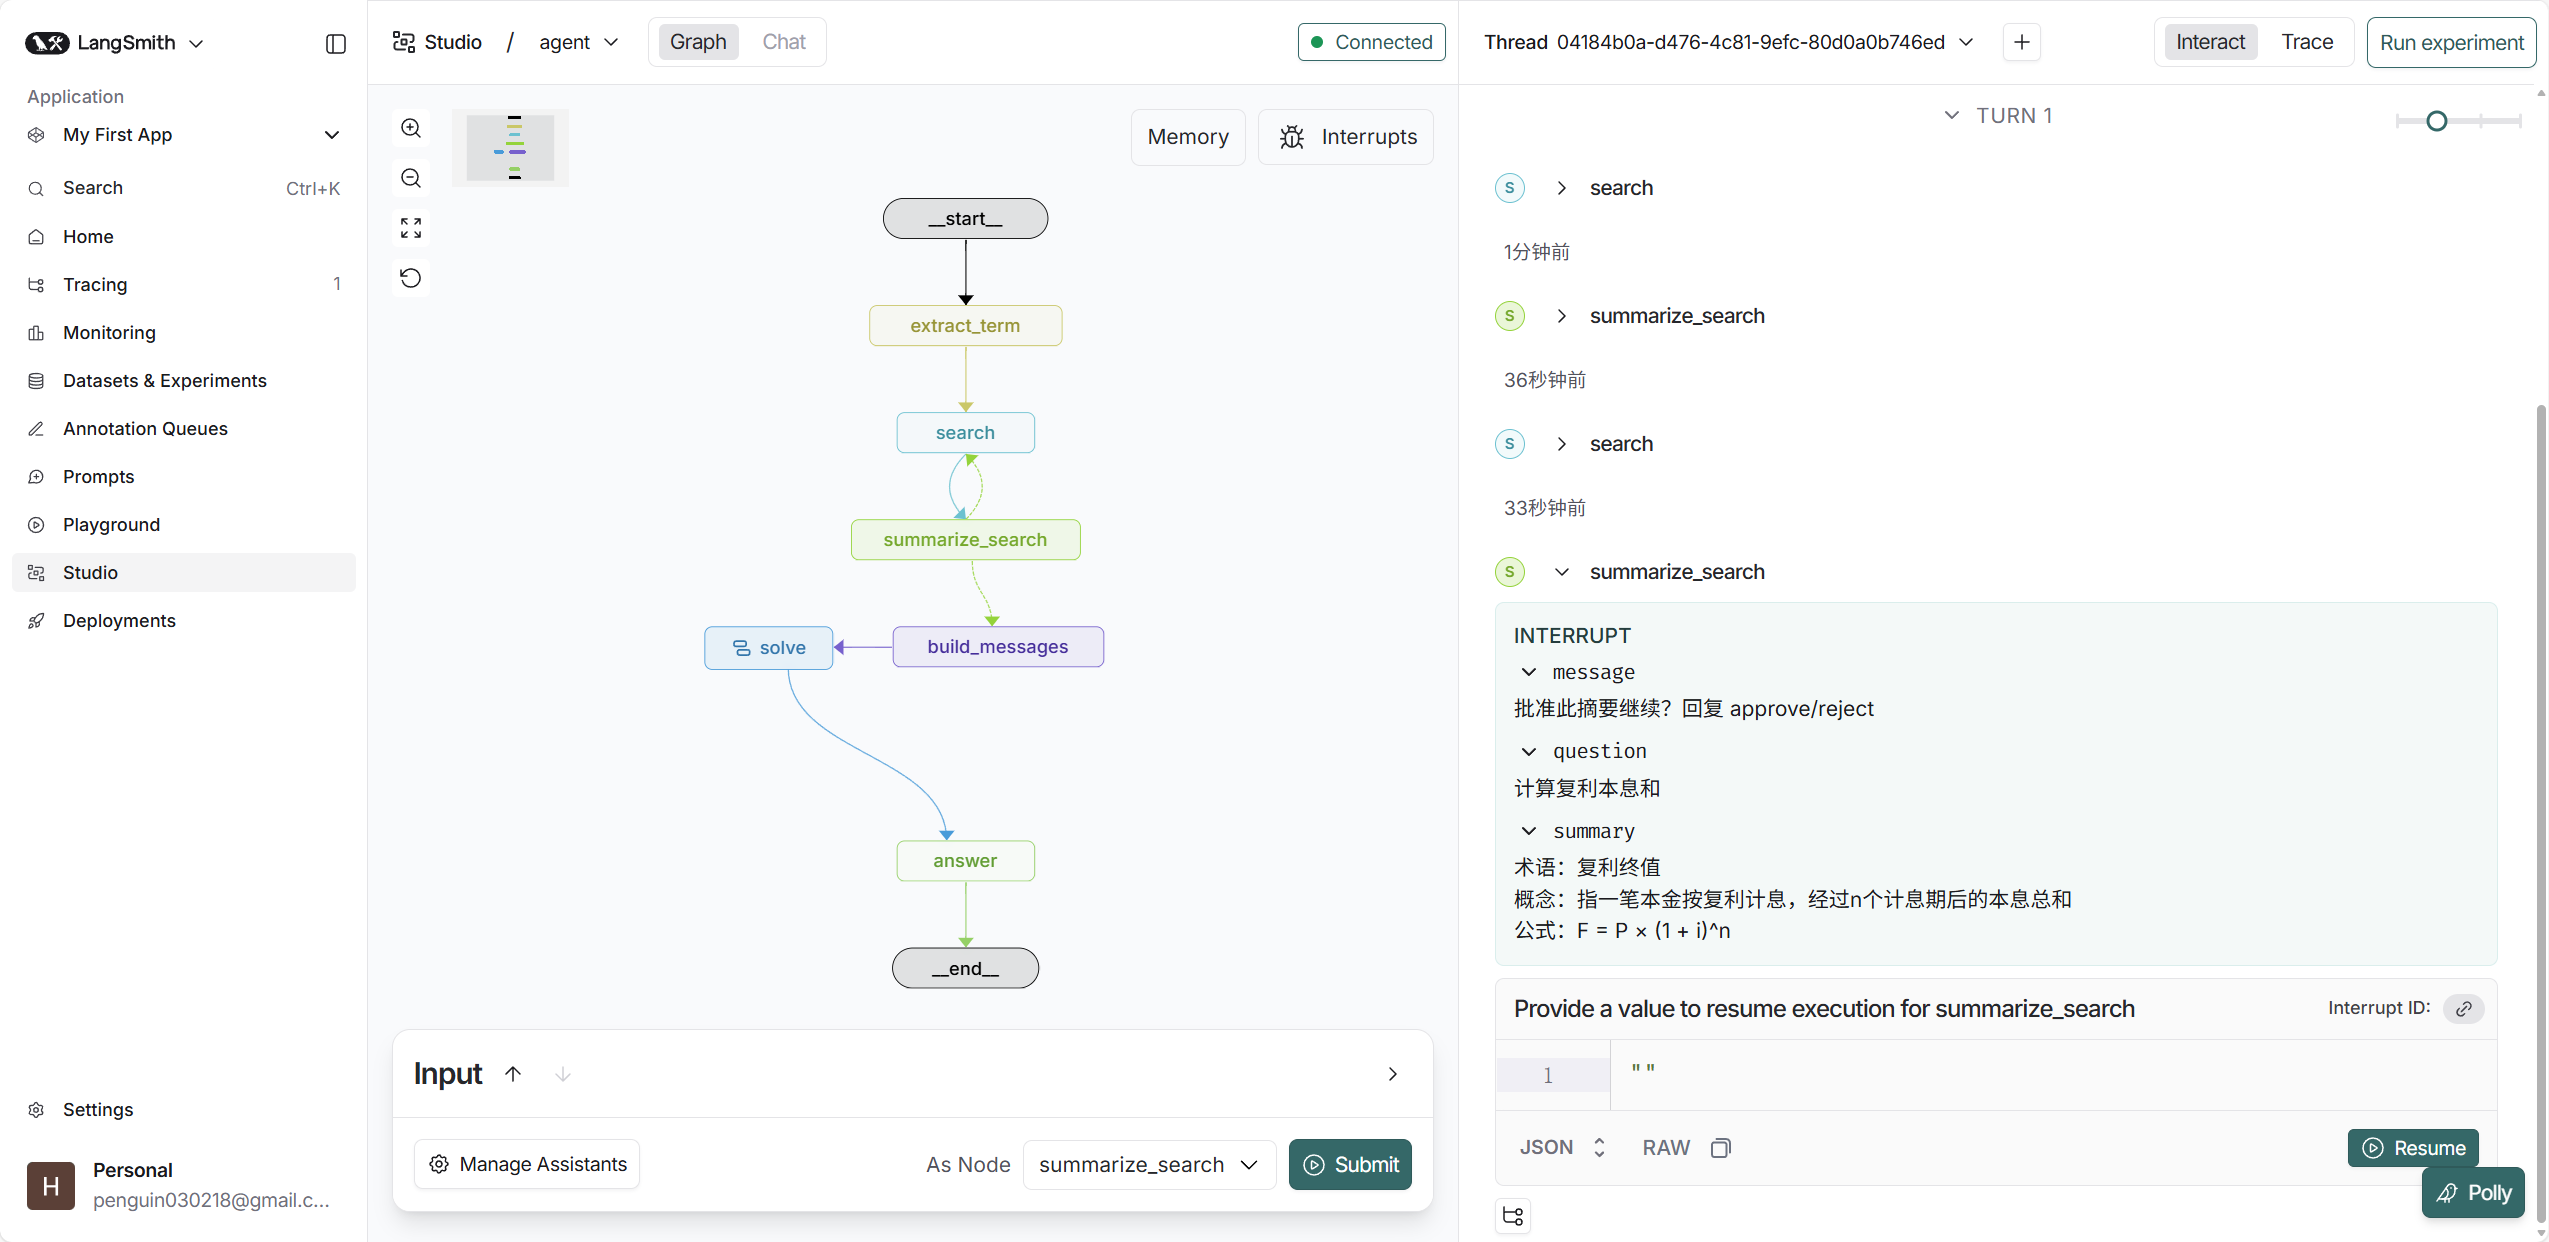
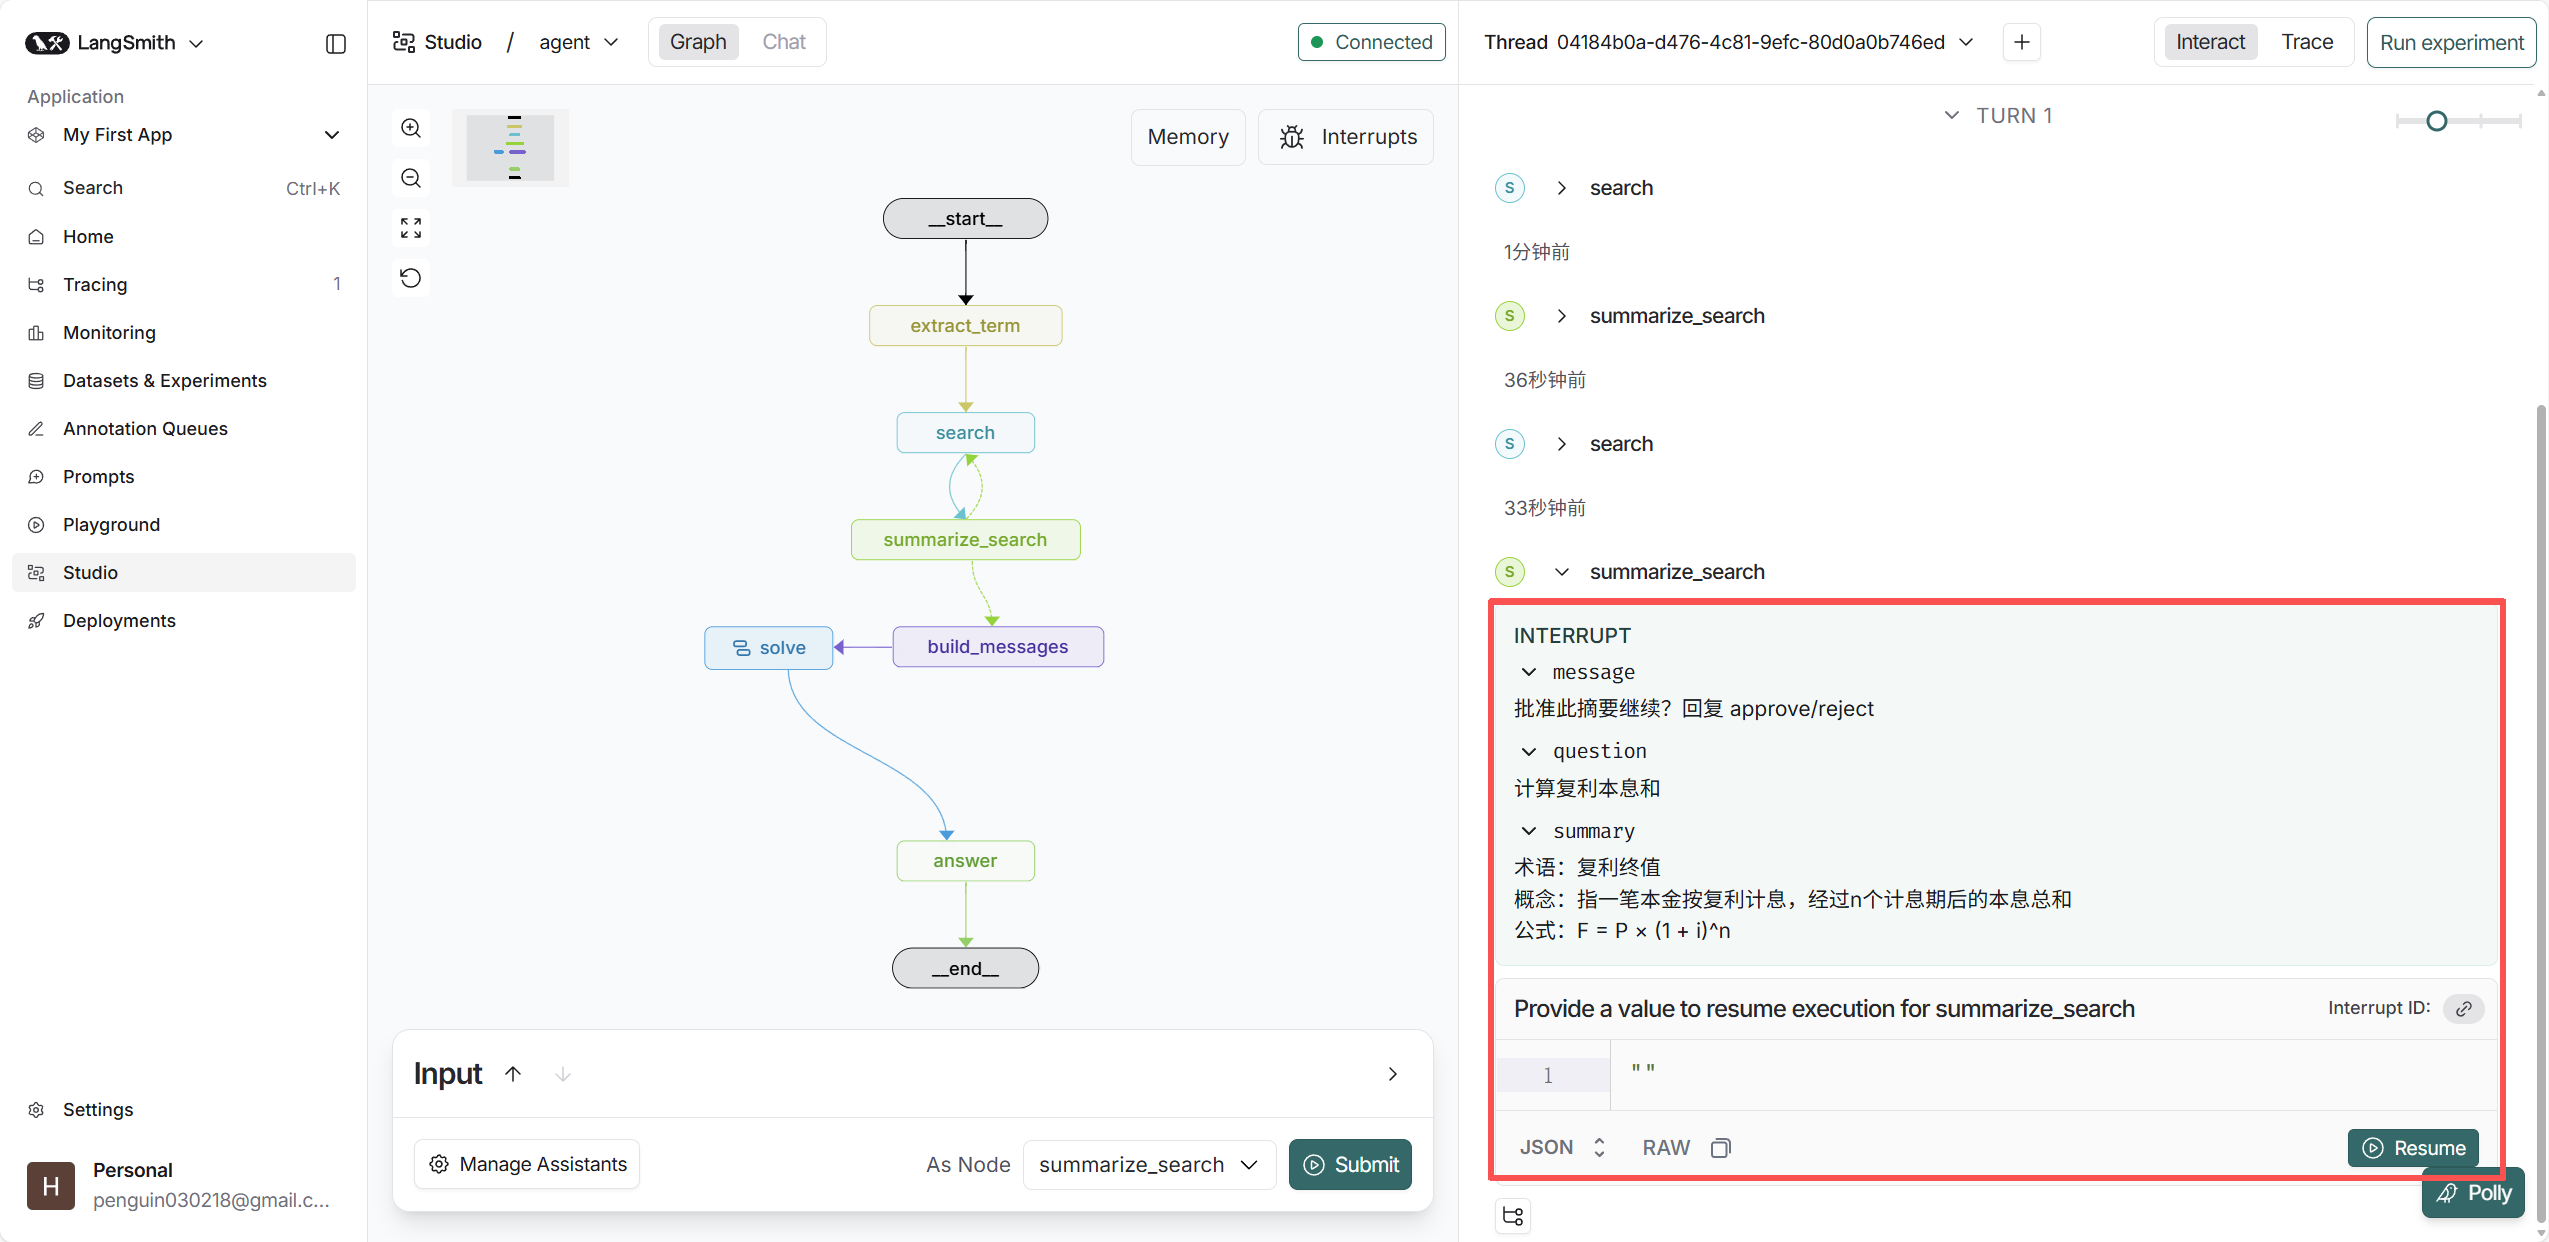
update system picture

Changed region(s): [[0.5889, 0.4589, 0.9918, 0.4895], [0.9608, 0.9179, 0.9918, 0.9485]]

diff --git a/README.md b/README.md
@@ -33,7 +33,7 @@
 
 ![LangGraph Studio 总览](<https://github.com/penguin218/Finance-Reasoning-System/blob/main/system_picture/workflow.png>)
 
-人在回路：展示摘要审批与回流搜索的交互
+人在回路：右下角INTERRUPT展示摘要审批与回流搜索的交互
 
 ![LangGraph Studio 人在回路](<https://github.com/penguin218/Finance-Reasoning-System/blob/main/system_picture/hitl.png>)
 
